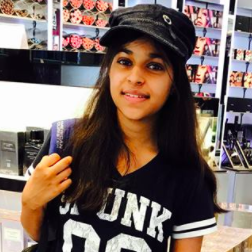
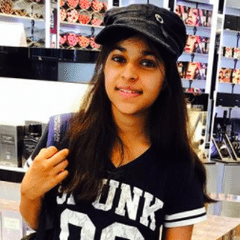
Added blog and photo && Adding right sized images (#169)
* I added my Blog

* Added photo

* I corrected the indenation

* Oversized Image deleted

* Adding right sized images

* Oversized Image Deleted

* Oversized Image Deleted

* Adding right sized iamges

* Oversized image deleted

* Adding right sized images

* Oversized images deleted

* Oversized images deleted

* Oversized images deleted

* Oversized images deleted

* Adding right sized images

diff --git a/index.html b/index.html
@@ -566,6 +566,75 @@
 
 			</div>
 
+			</section>
+
+			<section class="bg-secondary">
+
+
+		            <div class="row">
+
+
+		                <div class="col-md-3 col-sm-6">
+		                <a href="https://naveenrocker.wordpress.com/2017/12/01/first-time-in-google-code-in-with-fossasia/" target="_blank">
+		                    <div class="image-tile outer-title text-center">
+		                        <img alt="Pic" src="img/blog/1.jpg" height="240" width="240">
+		                        <div class="title mb16">
+		                            <h5 class="uppercase mb0">First Time in Google Code In with Fossasia</h5>
+		                            <span>Naveen Rajan</span>
+		                        </div>
+
+		                    </div>
+		                    </a>
+		                </div>
+
+		                <div class="col-md-3 col-sm-6">
+		                <a href="http://blog.kubacoding.eu/web-development/dive-into-open-source-with-fossasia-during-google-code-in/" target="_blank">
+		                    <div class="image-tile outer-title text-center">
+		                        <img alt="Latop with GitHub pendrive" src="img/blog/2.jpg" height="240" width="240">
+		                        <div class="title mb16">
+		                            <h5 class="uppercase mb0">My dive into open source with FOSSASIA during Google Code-in</h5>
+		                            <span>Kuba Michalski</span>
+		                        </div>
+
+		                    </div>
+		                    </a>
+		                </div>
+
+		                <div class="col-md-3 col-sm-6">
+				<a href="https://saarthakchaturvedi05.wordpress.com/2017/12/06/theres-code-in-me/" target="_blank">
+				     <div class="image-tile outer-title text-center">
+					<img src="img/blog/Saarthak.jpg" height="240" width="240">
+				        <div class="title mb16">
+					     <h5 class="uppercase mb0">There's Code-In Me</h5>
+					     <span>Saarthak Chaturvedi</span>
+					 </div>
+				     </div>
+		               	</div>
+					
+		                <div class="col-md-3 col-sm-6">
+				<a href="https://samyakbvs.wordpress.com/2017/12/07/in-code-i-believe/" target="_blank">
+				     <div class="image-tile outer-title text-center">
+					<img src="img/blog/Samyak.png" height="240" width="240">
+					<div class="title mb16">
+					     <h5 class="uppercase mb0">In code, I believe</h5>
+					     <span>Samyak Jain</span>
+					  </div>
+				      </div>
+		               	</div>
+
+                                <div class="col-md-3 col-sm-6">
+	                        <a href="https://kartikeya23.wordpress.com/2017/12/06/one-task-two-tasks-three-tasks/" target="_blank">
+		                      <div class="image-tile outer-title text-center">
+			                 <img alt="An awesome guy's pic couldn't be loaded" src="img/blog/4.jpeg" height="240" width="240">
+			                 <div class="title mb16">
+				              <h5 class="uppercase mb0">One Task, Two Tasks, Three Tasks...</h5>
+				              <span>Kartikeya Singh</span>
+			                   </div>
+		                       </div>
+	                                </a>
+                                </div>
+
+
 		</section>
 
 		<section class="bg-secondary" id="student-blog">
